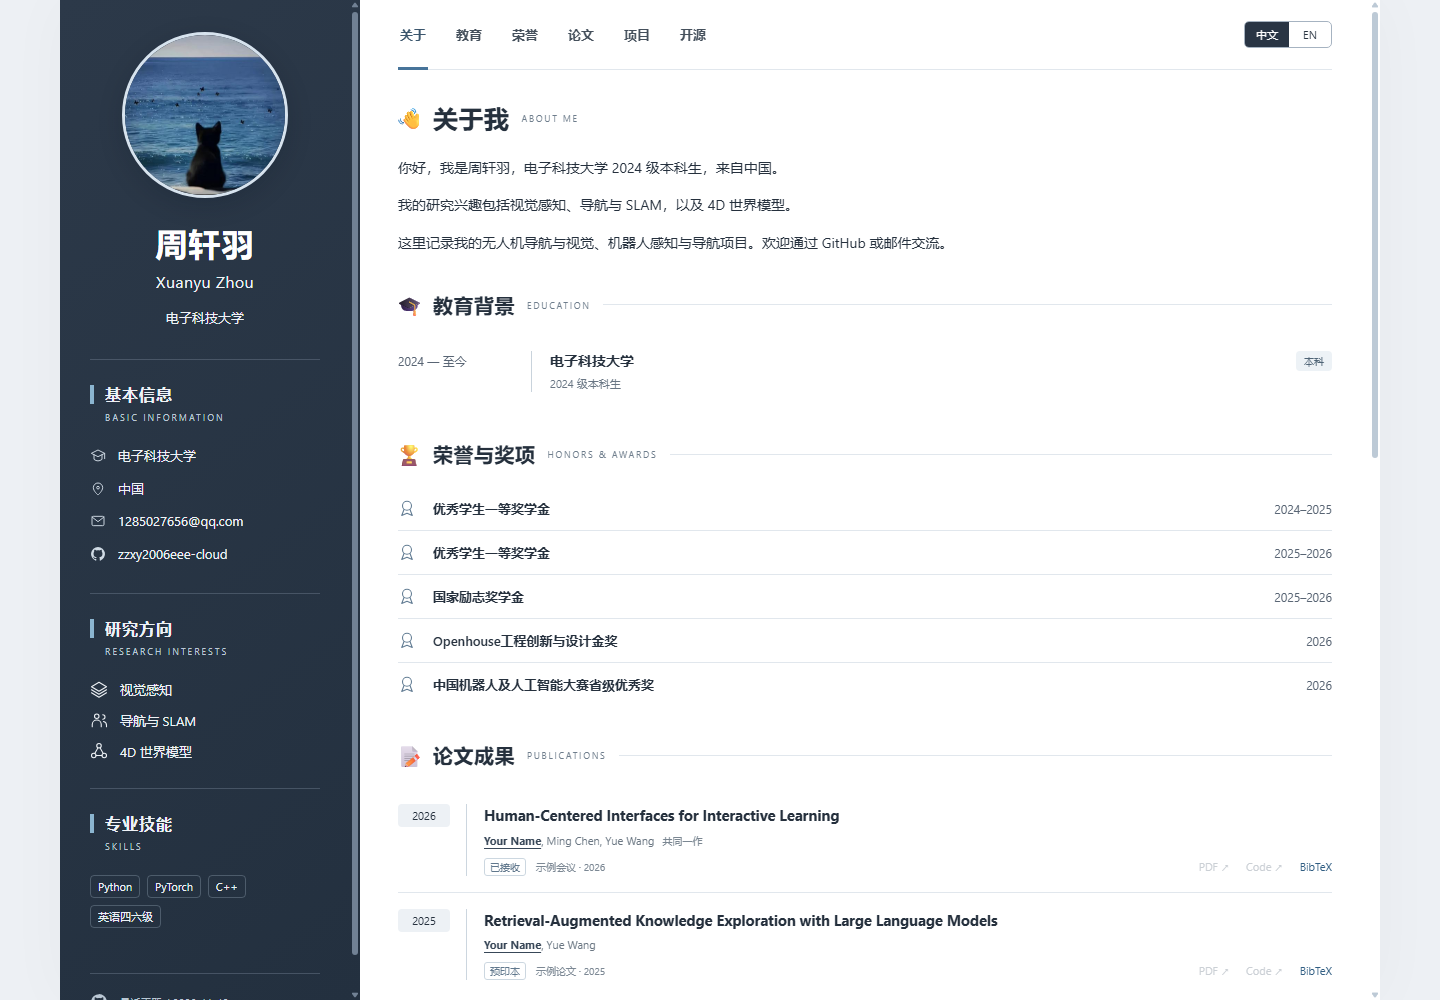
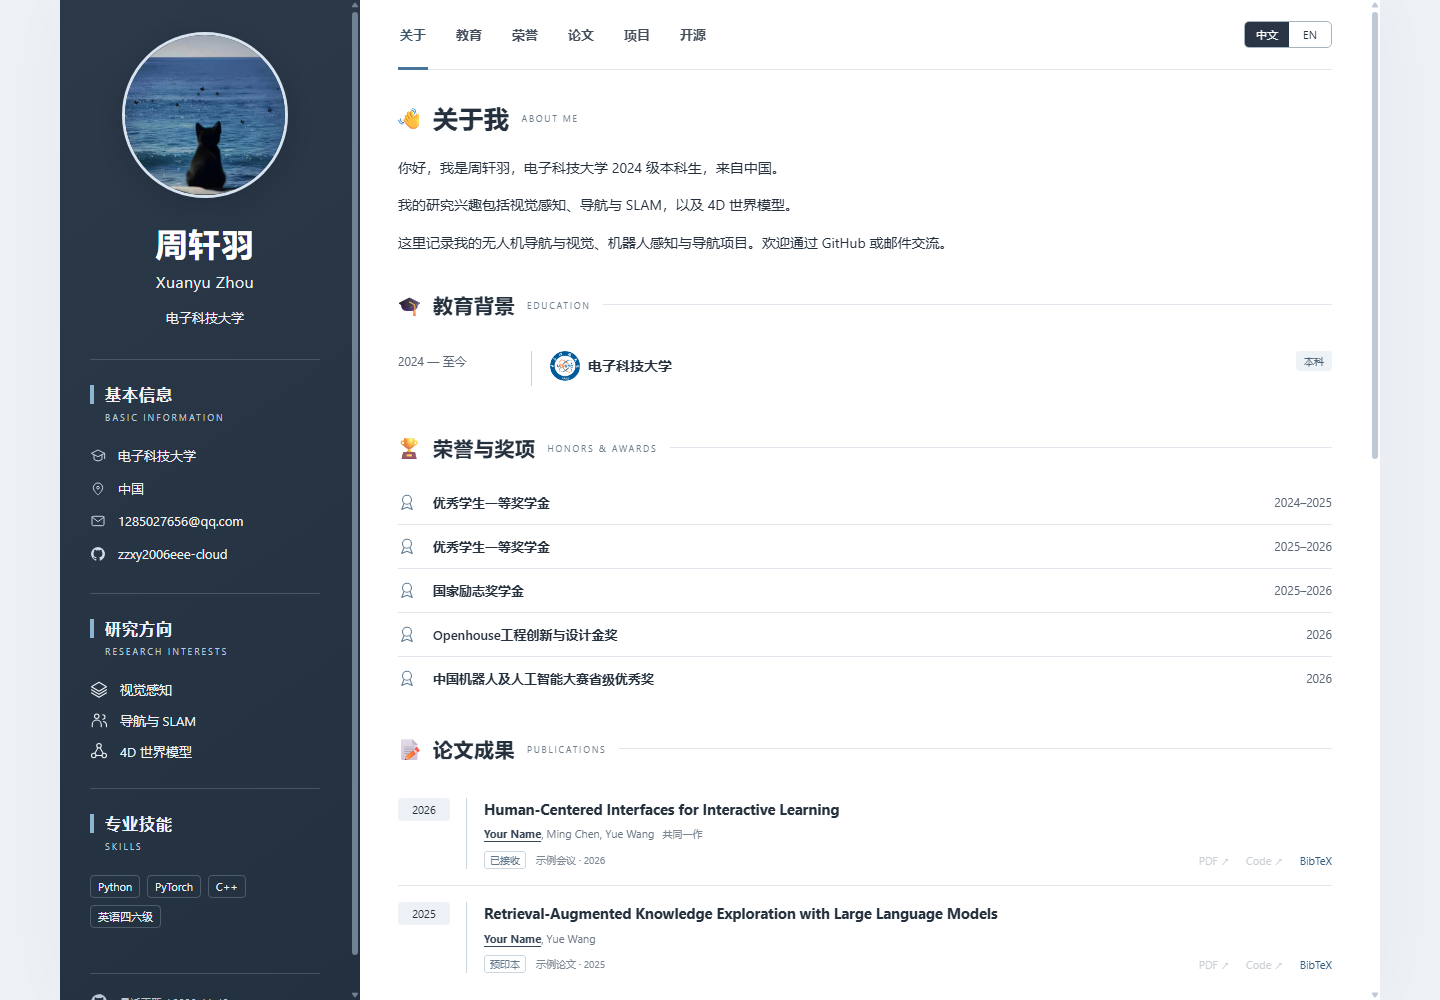
Add UESTC emblem and simplify education heading

diff --git a/src/app.js b/src/app.js
@@ -98,7 +98,7 @@
     return data.education
       .map(
         (x) =>
-          `<div class="education-row"><span class="date">${esc(l(x.period))}</span><div class="education-detail"><h3>${esc(l(x.school))}</h3><p>${esc(l(x.detail))}</p></div><span class="badge">${esc(l(x.degree))}</span></div>`,
+          `<div class="education-row"><span class="date">${esc(l(x.period))}</span><div class="education-detail"><h3 class="school-heading">${x.logo ? `<img class="school-logo" src="${esc(x.logo)}" alt="" width="30" height="30">` : ""}<span>${esc(l(x.school))}</span></h3>${l(x.detail) ? `<p>${esc(l(x.detail))}</p>` : ""}</div><span class="badge">${esc(l(x.degree))}</span></div>`,
       )
       .join("");
   }

diff --git a/src/styles.css b/src/styles.css
@@ -503,6 +503,24 @@ button {
   font-size: 14px;
   margin: 0 0 5px;
 }
+.school-heading {
+  display: flex;
+  align-items: center;
+  gap: 8px;
+}
+.school-logo {
+  width: 30px;
+  height: 30px;
+  flex-shrink: 0;
+  border-radius: 50%;
+  object-fit: cover;
+  /* The official image has white side margins around the circular emblem. */
+  object-position: 54% center;
+}
+.school-heading span {
+  min-width: 0;
+  overflow-wrap: anywhere;
+}
 .education-detail p {
   font-size: 11px;
   color: #687583;

diff --git a/README.md b/README.md
@@ -174,6 +174,7 @@ JSON 使用英文双引号；相邻条目之间用英文逗号分隔，最后一
 | --- | --- |
 | `period` | 起止时间，例如 `2023 — 至今`，支持中英文对象 |
 | `school` | 学校名称 |
+| `logo` | 可选校徽图片路径，留空不显示；当前为 `assets/images/uestc-emblem.png` |
 | `degree` | 学位或阶段，例如本科、硕士、博士 |
 | `detail` | 专业、学院、实验室或补充说明 |
 
@@ -390,4 +391,4 @@ Enable **GitHub Actions** as the repository's Pages source. A project repository
 
 ## License
 
-Source code and original SVG illustrations are MIT licensed. The user-supplied avatar and project photographs are retained as personal assets; replace them with your own images when reusing this template.
+Source code and original SVG illustrations are MIT licensed. The user-supplied avatar and project photographs are retained as personal assets; replace them with your own images when reusing this template. The UESTC emblem is sourced from the [official university news article](https://news.uestc.edu.cn/info/1007/13146.htm) and is not covered by this repository's MIT license; rights remain with its owner.
